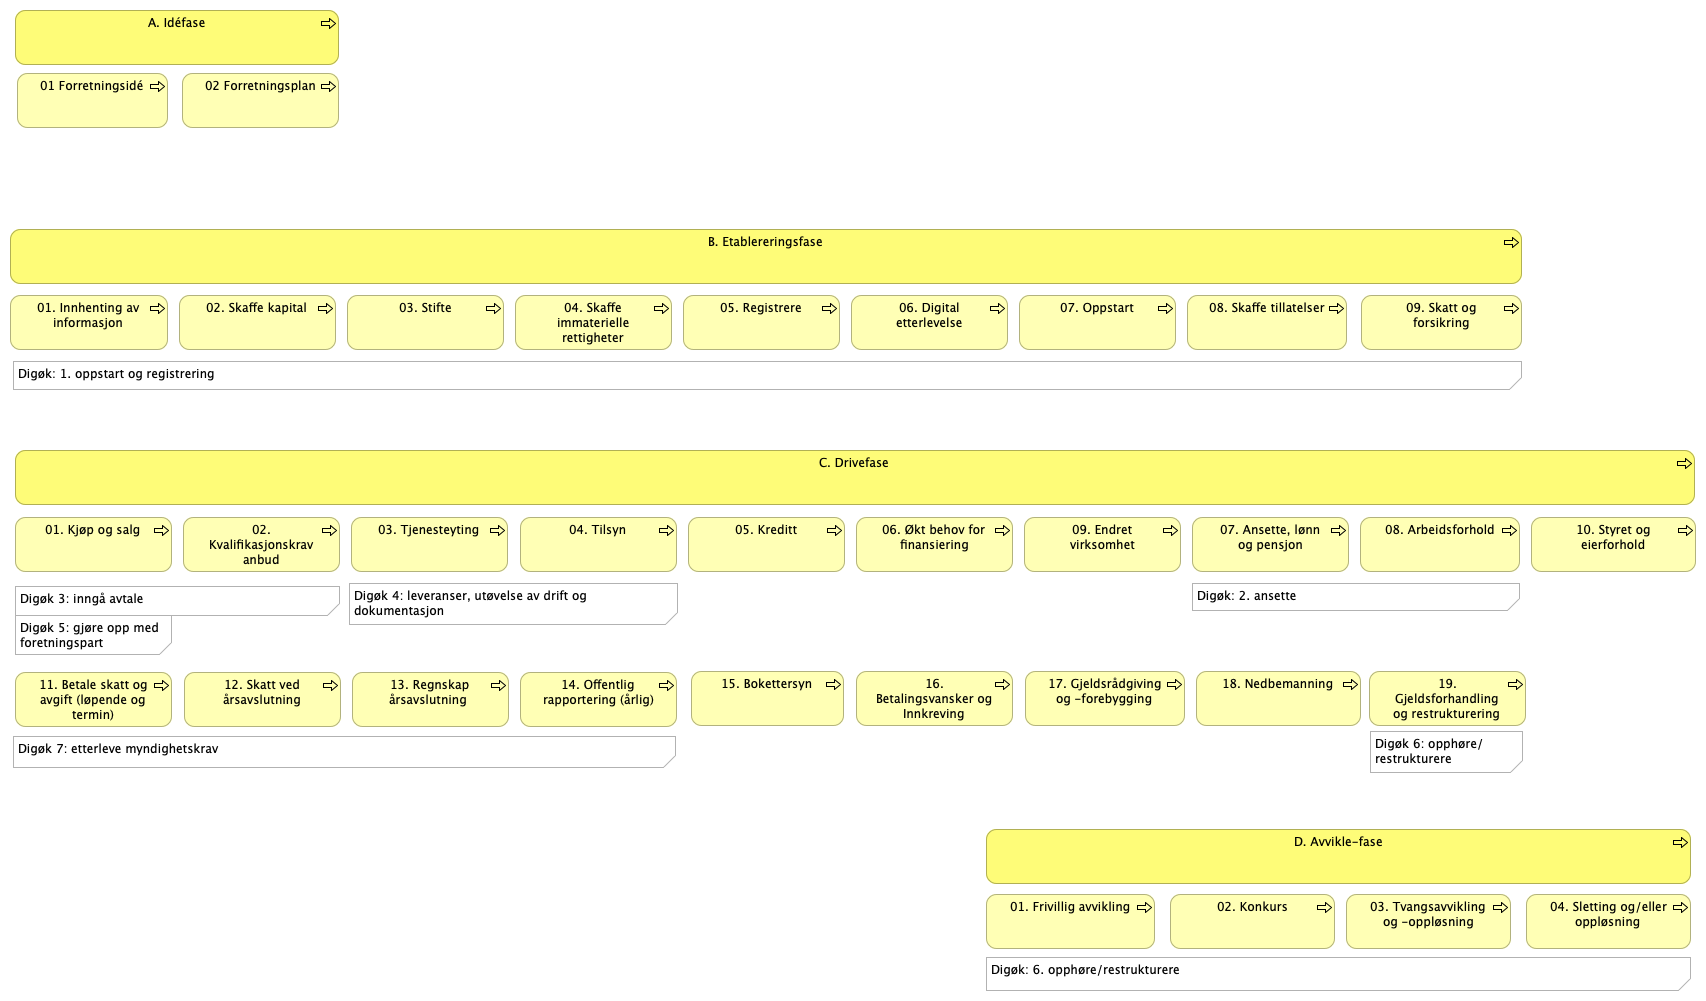
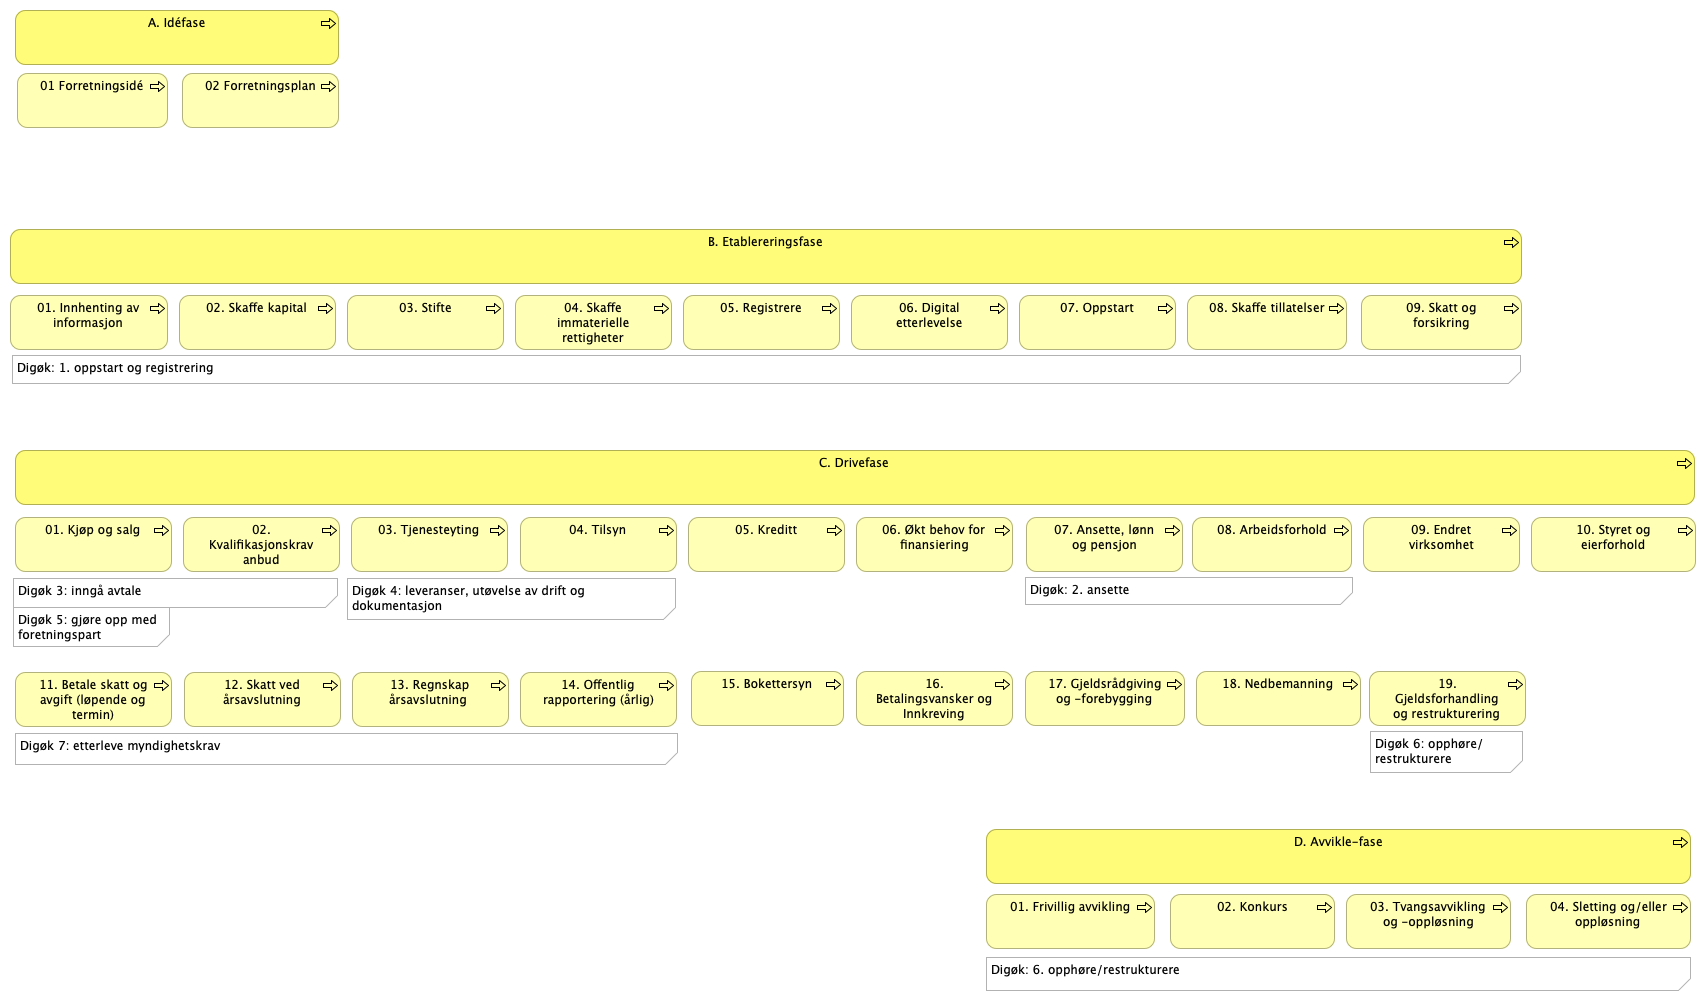
s&d

diff --git a/docs/id-0322705d/views/52bfe295-b97e-4c5e-b8cf-83361cda8c47.html b/docs/id-0322705d/views/52bfe295-b97e-4c5e-b8cf-83361cda8c47.html
@@ -44,9 +44,9 @@
 						<area shape="rect" coords="183,517,340,572" href="../elements/id-5dd712df-7a24-425a-a8b9-508170a8eec4.html"  target="element">
 						<area shape="rect" coords="688,517,845,572" href="../elements/id-d338f3a4-5ab9-4c6e-8a37-1e2cfe7634eb.html"  target="element">
 						<area shape="rect" coords="351,517,508,572" href="../elements/id-2cc41c01-0be4-4eb3-bd4b-a0c31ba86523.html"  target="element">
-						<area shape="rect" coords="1024,517,1181,572" href="../elements/id-ec33dd1c-653e-4bdf-a2e4-7f1bebcffd6a.html"  target="element">
+						<area shape="rect" coords="1363,517,1520,572" href="../elements/id-ec33dd1c-653e-4bdf-a2e4-7f1bebcffd6a.html"  target="element">
 						<area shape="rect" coords="856,517,1013,572" href="../elements/id-1def7d65-fc85-4eb8-914c-c9b73d65ba23.html"  target="element">
-						<area shape="rect" coords="1192,517,1349,572" href="../elements/id-9ac9c13a-dcd7-48e0-aa8f-3cd3d7394a45.html"  target="element">
+						<area shape="rect" coords="1026,517,1183,572" href="../elements/id-9ac9c13a-dcd7-48e0-aa8f-3cd3d7394a45.html"  target="element">
 						<area shape="rect" coords="1531,517,1696,572" href="../elements/id-47a79694-c1e0-4bf7-a024-98f15d69f9f8.html"  target="element">
 						<area shape="rect" coords="15,672,172,727" href="../elements/id-a8b8e395-d33c-47d0-a3e1-3d9c1c951ddf.html"  target="element">
 						<area shape="rect" coords="520,672,677,727" href="../elements/id-5d71dbe9-71cd-4d8b-a61a-ba36dc2b2b50.html"  target="element">
@@ -60,7 +60,7 @@
 						<area shape="rect" coords="1170,894,1335,949" href="../elements/id-ff93e6bf-4703-46c2-b198-112399320693.html"  target="element">
 						<area shape="rect" coords="17,73,168,128" href="../elements/id-97d664a8-18a5-49a5-8032-46224917c4da.html"  target="element">
 						<area shape="rect" coords="10,229,1522,284" href="../elements/id-9ee94c99-0309-4976-82a6-858e3c457610.html"  target="element">
-						<area shape="rect" coords="1360,517,1520,572" href="../elements/0598c8b4-8e49-4456-a012-d3f65d1815d9.html"  target="element">
+						<area shape="rect" coords="1192,517,1352,572" href="../elements/0598c8b4-8e49-4456-a012-d3f65d1815d9.html"  target="element">
 						<area shape="rect" coords="352,672,509,727" href="../elements/ceabef67-9b54-4967-865b-7ac8107470e6.html"  target="element">
 						<area shape="rect" coords="1526,894,1691,949" href="../elements/aa3198f3-cc67-4a3f-9325-cb6e9142eb17.html"  target="element">
 						<area shape="rect" coords="1346,894,1511,949" href="../elements/6319be88-019b-4e7d-8128-74b6bb372a89.html"  target="element">
